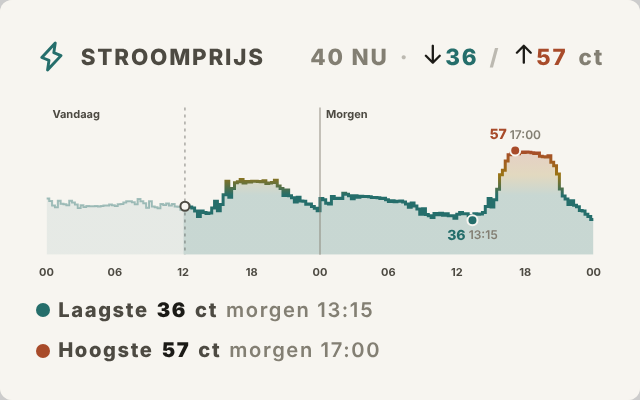
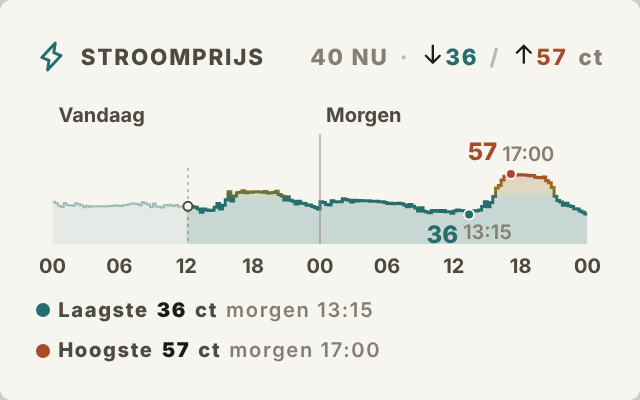
energy_dynamic_price: portrait layout (paperlesspaper OpenPaper 7 / L)
Canvas text now follows the widget type scale instead of cell width,
narrow cells drop 'now' from the title chip, short narrow cells keep a
one-line legend, and day captions / max label get their own band so they
no longer clip. Adds portrait screenshots.

Claude-Session: https://claude.ai/code/session_01Q1Wy3228gUQzhpiE2Whx7C

diff --git a/energy_dynamic_price/client.js b/energy_dynamic_price/client.js
@@ -145,6 +145,11 @@ export default function render(shadow, ctx) {
     .ep-range .hi { color: var(--accent-1); }
     .ep-range .sep { opacity: 0.5; }
     .ep-range i { font-size: 0.85em; }
+    /* Narrow (portrait) cells: keep the title readable by dropping the
+       "40 NU ·" part of the chip; the legend shows the current price. */
+    @container (max-width: 560px) {
+      .ep-range .now, .ep-range .now + .sep { display: none; }
+    }
     @container (max-width: 280px) {
       .ep-legend { display: none; }
       .ep-range { display: none; }
@@ -166,15 +171,22 @@ export default function render(shadow, ctx) {
   // md keeps the legend to one row (low + high); lg adds now, average and
   // the 'tomorrow from ~13:00' hint.
   const wide = cellWidth > 900;
+  // Narrow cells drop "now" from the title chip, so the legend carries it.
+  const narrow = cellWidth <= 560;
+  // Narrow *and* short (e.g. half of a 480x800 portrait frame): low / high
+  // already sit in the chip and on the curve, so the legend keeps only
+  // "now" and the chart gets the height.
+  const cellH = shadow.host?.clientHeight || ctx?.cell?.h || 400;
+  const compactLegend = narrow && cellH < 450;
   const pendingNote = data.range !== "today" && !data.has_tomorrow
     ? `<span class="ep-key ep-note"><i class="ph-bold ph-clock"></i>${escapeHtml(t("tomorrow_pending", "Tomorrow's prices from ~13:00"))}</span>`
     : "";
   const legend = showLegend
     ? `
       <div class="ep-legend">
-        ${lo ? `<span class="ep-key"><span class="dot dot--lo"></span>${escapeHtml(t("lowest", "Lowest"))} <b>${escapeHtml(fmt(lo.p))}</b> ${escapeHtml(unit)} <span class="muted">${escapeHtml(when(lo))}</span></span>` : ""}
-        ${hi ? `<span class="ep-key"><span class="dot dot--hi"></span>${escapeHtml(t("highest", "Highest"))} <b>${escapeHtml(fmt(hi.p))}</b> ${escapeHtml(unit)} <span class="muted">${escapeHtml(when(hi))}</span></span>` : ""}
-        ${wide && now ? `<span class="ep-key"><span class="ring"></span><span class="muted">${escapeHtml(t("now", "now"))} ${escapeHtml(fmt(now.p))} ${escapeHtml(unit)} · ${escapeHtml(now.from)}–${escapeHtml(now.till)}</span></span>` : ""}
+        ${lo && !compactLegend ? `<span class="ep-key"><span class="dot dot--lo"></span>${escapeHtml(t("lowest", "Lowest"))} <b>${escapeHtml(fmt(lo.p))}</b> ${escapeHtml(unit)} <span class="muted">${escapeHtml(when(lo))}</span></span>` : ""}
+        ${hi && !compactLegend ? `<span class="ep-key"><span class="dot dot--hi"></span>${escapeHtml(t("highest", "Highest"))} <b>${escapeHtml(fmt(hi.p))}</b> ${escapeHtml(unit)} <span class="muted">${escapeHtml(when(hi))}</span></span>` : ""}
+        ${(wide || narrow) && now ? `<span class="ep-key"><span class="ring"></span><span class="muted">${escapeHtml(t("now", "now"))} ${escapeHtml(fmt(now.p))} ${escapeHtml(unit)} · ${escapeHtml(now.from)}–${escapeHtml(now.till)}</span></span>` : ""}
         ${wide && data.avg != null ? `<span class="ep-key"><span class="muted">${escapeHtml(t("average", "Average"))} ${escapeHtml(fmt(data.avg))} ${escapeHtml(unit)}</span></span>` : ""}
         ${wide ? pendingNote : ""}
       </div>`
@@ -294,9 +306,15 @@ export default function render(shadow, ctx) {
   });
 
   // ---- axis -----------------------------------------------------------
-  const cqBase = Math.max(8, Math.min(28, Math.round(cellWidth / 60)));
-  const tickFontSize = Math.max(10, Math.min(20, cqBase));
-  const markFont = Math.max(11, Math.round(tickFontSize * 1.25));
+  // Canvas text follows the widget's own type scale, so axis labels match
+  // the HTML text at any aspect ratio (width-only sizing made them tiny in
+  // tall portrait cells). Mirrors --w-font-base = clamp(14px, 7cqmin, 28px)
+  // from the cell's virtual (post-zoom) size; computed here rather than
+  // read from .w because the shadow-root stylesheet may still be loading.
+  const cellHeight = shadow.host?.clientHeight || ctx?.cell?.h || 400;
+  const baseFont = Math.min(28, Math.max(14, 0.07 * Math.min(cellWidth, cellHeight)));
+  const tickFontSize = Math.max(10, Math.min(22, Math.round(baseFont * 0.72)));
+  const markFont = Math.max(11, Math.min(26, Math.round(baseFont * 0.85)));
   const small = cellWidth <= 280;
 
   const labelAt = (i) => (i < n ? slots[i].t : addMinutes(slots[n - 1].t, minutes));
@@ -308,6 +326,11 @@ export default function render(shadow, ctx) {
   }
 
   // ---- overlay plugin: day split, min / max, now ------------------------
+  // Reserved bands above the plot: day captions on top, then room for the
+  // max label, so neither clips nor collides on short cells.
+  const capBand = days.length > 1 && !small ? tickFontSize + 8 : 0;
+  const markBand = markFont + 10;
+
   const overlay = {
     id: "ep-overlay",
     afterDatasetsDraw(chart) {
@@ -327,7 +350,7 @@ export default function render(shadow, ctx) {
             c.lineWidth = 1.5;
             c.setLineDash([]);
             c.beginPath();
-            c.moveTo(xi, area.top);
+            c.moveTo(xi, area.top - markBand);
             c.lineTo(xi, area.bottom);
             c.stroke();
           }
@@ -336,7 +359,7 @@ export default function render(shadow, ctx) {
             c.font = `700 ${tickFontSize}px ${family}`;
             c.textBaseline = "top";
             c.textAlign = "left";
-            c.fillText(dayLabel(days[d].key), xi + 6, area.top + 2);
+            c.fillText(dayLabel(days[d].key), xi + 6, area.top - markBand - capBand);
           }
         }
       }
@@ -412,7 +435,7 @@ export default function render(shadow, ctx) {
       responsive: true,
       maintainAspectRatio: false,
       parsing: true,
-      layout: { padding: { left: 4, right: 4 } },
+      layout: { padding: { left: 4, right: 4, top: capBand + markBand } },
       scales: {
         x: {
           type: "linear",
@@ -435,8 +458,8 @@ export default function render(shadow, ctx) {
           display: false,
           // Head-room for the max label (+ day captions) on top and the
           // min label underneath.
-          suggestedMin: pMin - span * (small ? 0.3 : 0.35),
-          suggestedMax: pMax + span * (small ? 0.3 : 0.4),
+          suggestedMin: pMin - span * (small ? 0.3 : cellHeight < 450 ? 0.55 : 0.35),
+          suggestedMax: pMax + span * 0.08,
           grid: { display: false },
           border: { display: false },
         },

diff --git a/energy_dynamic_price/README.md b/energy_dynamic_price/README.md
@@ -31,6 +31,25 @@ morgen zijn verzonnen, want die waren nog niet gepubliceerd.)*
   beeld zijn. Zijn de prijzen van morgen er nog niet, dan staat er op lg
   "Prijzen morgen vanaf ~13:00".
 
+## Portrait / paperlesspaper
+
+Getest op portrait-celmaten van de paperlesspaper **OpenPaper 7**
+(480×800) en **OpenPaper L** (1200×1600), zowel schermvullend als
+half scherm:
+
+| OpenPaper 7, 480×800 | OpenPaper L, 1200×1600 |
+|---|---|
+| ![OpenPaper 7](screenshots/openpaper7_portrait.png) | ![OpenPaper L](screenshots/openpaper_l_portrait.png) |
+
+- De tekst in de grafiek volgt dezelfde schaal als de rest van de widget
+  (`clamp(14px, 7cqmin, 28px)`), dus ook in hoge, smalle cellen blijft hij
+  goed leesbaar.
+- In smalle cellen (≤ 560 px breed) laat de titelchip "40 NU" weg, zodat de
+  titel past. De huidige prijs staat dan in de legenda.
+- In smalle én lage cellen (zoals een halve OpenPaper 7, 480×400) toont de
+  legenda alleen de huidige prijs. Laagste en hoogste staan al in de chip en
+  op de lijn, zo houdt de grafiek zijn hoogte.
+
 ## Bronnen
 
 | Bron | Sleutel | Prijs |
